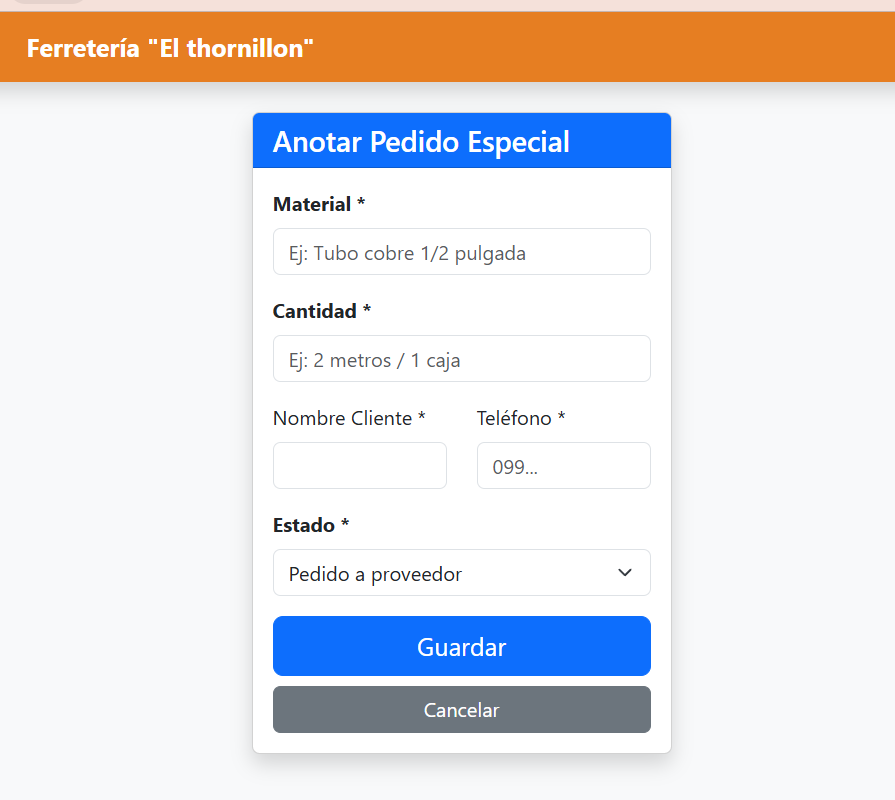
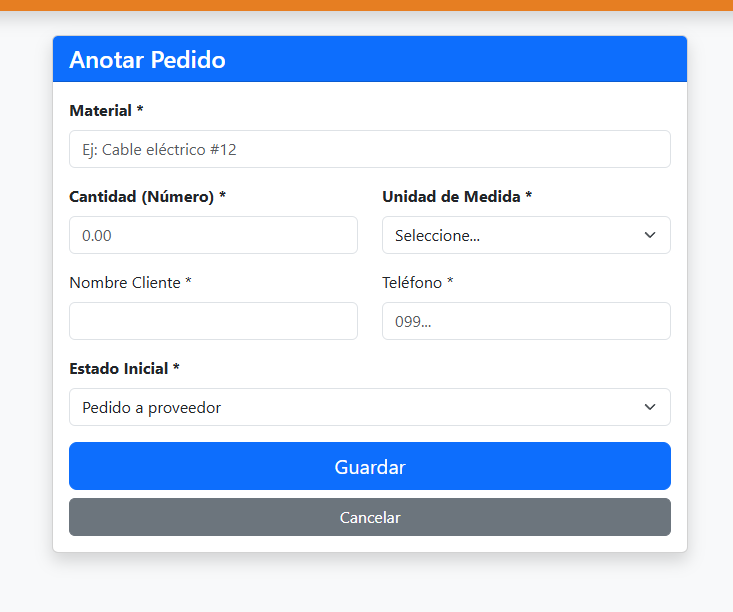
mejoras

diff --git a/resources/views/pedidos/edit.blade.php b/resources/views/pedidos/edit.blade.php
@@ -11,6 +11,16 @@
             </div>
             <div class="card-body">
                 
+                @if ($errors->any())
+                    <div class="alert alert-danger">
+                        <ul class="mb-0">
+                            @foreach ($errors->all() as $error)
+                                <li>{{ $error }}</li>
+                            @endforeach
+                        </ul>
+                    </div>
+                @endif
+
                 <form action="{{ route('pedidos.update', $pedido) }}" method="POST">
                     @csrf
                     @method('PUT')
@@ -20,9 +30,27 @@
                         <input type="text" name="material" class="form-control" value="{{ $pedido->material }}" required>
                     </div>
 
-                    <div class="mb-3">
-                        <label class="form-label">Cantidad</label>
-                        <input type="text" name="cantidad" class="form-control" value="{{ $pedido->cantidad }}" required>
+                    <div class="row">
+                        <div class="col-md-6 mb-3">
+                            <label class="form-label fw-bold">Cantidad</label>
+                            <input type="number" name="cantidad" class="form-control" value="{{ $pedido->cantidad }}" step="0.01" min="0" required>
+                        </div>
+                        
+                        <div class="col-md-6 mb-3">
+                            <label class="form-label fw-bold">Unidad de Medida</label>
+                            <select name="unidadesmed" class="form-select" required>
+                                <option value="Unidad(es)" {{ $pedido->unidadesmed == 'Unidad(es)' ? 'selected' : '' }}>Unidad(es)</option>
+                                <option value="Metro(s)" {{ $pedido->unidadesmed == 'Metro(s)' ? 'selected' : '' }}>Metro(s)</option>
+                                <option value="Centímetro(s)" {{ $pedido->unidadesmed == 'Centímetro(s)' ? 'selected' : '' }}>Centímetro(s)</option>
+                                <option value="Milímetro(s)" {{ $pedido->unidadesmed == 'Milímetro(s)' ? 'selected' : '' }}>Milímetro(s)</option>
+                                <option value="Kilo(s)" {{ $pedido->unidadesmed == 'Kilo(s)' ? 'selected' : '' }}>Kilo(s)</option>
+                                <option value="Libra(s)" {{ $pedido->unidadesmed == 'Libra(s)' ? 'selected' : '' }}>Libra(s)</option>
+                                <option value="Litro(s)" {{ $pedido->unidadesmed == 'Litro(s)' ? 'selected' : '' }}>Litro(s)</option>
+                                <option value="Galón(es)" {{ $pedido->unidadesmed == 'Galón(es)' ? 'selected' : '' }}>Galón(es)</option>
+                                <option value="Caja(s)" {{ $pedido->unidadesmed == 'Caja(s)' ? 'selected' : '' }}>Caja(s)</option>
+                                <option value="Juego/Kit" {{ $pedido->unidadesmed == 'Juego/Kit' ? 'selected' : '' }}>Juego/Kit</option>
+                            </select>
+                        </div>
                     </div>
 
                     <div class="row">
@@ -41,7 +69,7 @@
                         <select name="estado" class="form-select" required>
                             <option value="Pedido a proveedor" {{ $pedido->estado == 'Pedido a proveedor' ? 'selected' : '' }}>Pedido a proveedor</option>
                             <option value="En camino" {{ $pedido->estado == 'En camino' ? 'selected' : '' }}>En camino</option>
-                            <option value="Llegó" {{ $pedido->estado == 'Llegó' ? 'selected' : '' }}>Ya Llegó (Listo para entrega)</option>
+                            <option value="Llegó" {{ $pedido->estado == 'Llegó' ? 'selected' : '' }}>Ya Llegó</option>
                         </select>
                     </div>
 

diff --git a/resources/views/pedidos/create.blade.php b/resources/views/pedidos/create.blade.php
@@ -7,13 +7,13 @@
     <div class="col-md-6">
         <div class="card shadow">
             <div class="card-header bg-primary text-white">
-                <h4 class="mb-0">Anotar Pedido Especial</h4>
+                <h4 class="mb-0">Anotar Pedido</h4>
             </div>
             <div class="card-body">
                 
                 @if ($errors->any())
                     <div class="alert alert-danger">
-                        <ul>
+                        <ul class="mb-0">
                             @foreach ($errors->all() as $error)
                                 <li>{{ $error }}</li>
                             @endforeach
@@ -26,12 +26,31 @@
 
                     <div class="mb-3">
                         <label class="form-label fw-bold">Material *</label>
-                        <input type="text" name="material" class="form-control" placeholder="Ej: Tubo cobre 1/2 pulgada" required>
+                        <input type="text" name="material" class="form-control" placeholder="Ej: Cable eléctrico #12" required>
                     </div>
 
-                    <div class="mb-3">
-                        <label class="form-label fw-bold">Cantidad *</label>
-                        <input type="text" name="cantidad" class="form-control" placeholder="Ej: 2 metros / 1 caja" required>
+                    <div class="row">
+                        <div class="col-md-6 mb-3">
+                            <label class="form-label fw-bold">Cantidad (Número) *</label>
+                            <input type="number" name="cantidad" class="form-control" placeholder="0.00" step="0.01" min="0" required>
+                        </div>
+                        
+                        <div class="col-md-6 mb-3">
+                            <label class="form-label fw-bold">Unidad de Medida *</label>
+                            <select name="unidadesmed" class="form-select" required>
+                                <option value="">Seleccione...</option>
+                                <option value="Unidad(es)">Unidad(es)</option>
+                                <option value="Metro(s)">Metro(s)</option>
+                                <option value="Centímetro(s)">Centímetro(s)</option>
+                                <option value="Milímetro(s)">Milímetro(s)</option>
+                                <option value="Kilo(s)">Kilo(s)</option>
+                                <option value="Libra(s)">Libra(s)</option>
+                                <option value="Litro(s)">Litro(s)</option>
+                                <option value="Galón(es)">Galón(es)</option>
+                                <option value="Caja(s)">Caja(s)</option>
+                                <option value="Juego/Kit">Juego/Kit</option>
+                            </select>
+                        </div>
                     </div>
 
                     <div class="row">
@@ -46,12 +65,13 @@
                     </div>
 
                     <div class="mb-3">
-                        <label class="form-label fw-bold">Estado *</label>
+                        <label class="form-label fw-bold">Estado Inicial *</label>
                         <select name="estado" class="form-select" required>
                             <option value="Pedido a proveedor">Pedido a proveedor</option>
                             <option value="En camino">En camino</option>
-                            <option value="Llegó"> Llegó </option>
-                            <option value="Entregado">Entregado</option>
+                            <option value="Llegó">Llegó</option>
+                            <option value="Llegó">Entregado</option>
+
                         </select>
                     </div>
 

diff --git a/app/Http/Controllers/PedidoController.php b/app/Http/Controllers/PedidoController.php
@@ -7,36 +7,33 @@ use Illuminate\Http\Request;
 
 class PedidoController extends Controller
 {
-   
     public function index()
     {
-      
         $pedidos = Pedido::getPedidos();
         return view('pedidos.index', compact('pedidos'));
     }
-
 
     public function create()
     {
         return view('pedidos.create');
     }
 
+    
     public function store(Request $request)
     {
-
         $request->validate([
             'material' => 'required',
-            'cantidad' => 'required',
+            'cantidad' => 'required|numeric|min:0.01', 
+            'unidadesmed' => 'required', 
             'cliente' => 'required',
-            'telefono' => 'required',
+            'telefono' => 'required|numeric|min:1',
             'estado' => 'required'
         ]);
 
-  
         Pedido::createPedido($request);
 
         return redirect()->route('pedidos.index')
-            ->with('success', 'Pedido registrado en el sistema.');
+            ->with('success', 'Pedido registrado correctamente.');
     }
 
     public function edit(Pedido $pedido)
@@ -48,7 +45,8 @@ class PedidoController extends Controller
     {
         $request->validate([
             'material' => 'required',
-            'cantidad' => 'required',
+            'cantidad' => 'required|numeric|min:0.01',
+            'unidadesmed' => 'required',
             'cliente' => 'required',
             'telefono' => 'required',
             'estado' => 'required'
@@ -57,16 +55,14 @@ class PedidoController extends Controller
         Pedido::updatePedido($request, $pedido);
 
         return redirect()->route('pedidos.index')
-            ->with('success', 'Información del pedido actualizada.');
+            ->with('success', 'Información actualizada.');
     }
 
-  
     public function destroy(Pedido $pedido)
     {
-     
         Pedido::deletePedido($pedido);
 
         return redirect()->route('pedidos.index')
-            ->with('success', 'Pedido marcado como ENTREGADO y eliminado de la lista.');
+            ->with('success', 'Pedido entregado y eliminado de la lista.');
     }
 }

diff --git a/database/migrations/2025_12_19_174222_create_pedidos_table.php b/database/migrations/2025_12_19_174222_create_pedidos_table.php
@@ -9,19 +9,19 @@ return new class extends Migration
     /**
      * Run the migrations.
      */
-public function up(): void
+    public function up(): void
     {
         Schema::create('pedidos', function (Blueprint $table) {
-            $table->id(); 
-            
-            
-            $table->string('material');     
-            $table->string('cantidad');     
-            $table->string('cliente');       
-            $table->string('telefono');      
-            $table->string('estado');       
+            $table->id();
             
         
+            $table->string('material');
+            $table->decimal('cantidad', 10, 2); 
+            $table->string('unidadesmed');      
+            $table->string('cliente');
+            $table->string('telefono');
+            $table->string('estado');
+            
             $table->timestamps();
         });
     }

diff --git a/resources/views/pedidos/index.blade.php b/resources/views/pedidos/index.blade.php
@@ -18,6 +18,7 @@
                     <tr>
                         <th>Material</th>
                         <th>Cantidad</th>
+                        <th>Unidades Med.</th>
                         <th>Cliente</th>
                         <th>Teléfono</th>
                         <th>Estado</th>
@@ -30,6 +31,7 @@
                     <tr>
                         <td class="fw-bold">{{ $pedido->material }}</td>
                         <td>{{ $pedido->cantidad }}</td>
+                        <td>{{ $pedido->unidadesmed }}</td>
                         <td>{{ $pedido->cliente }}</td>
                         <td>
                             <a href="tel:{{ $pedido->telefono }}" class="text-decoration-none">

diff --git a/app/Models/Pedido.php b/app/Models/Pedido.php
@@ -7,25 +7,23 @@ use Illuminate\Http\Request;
 
 class Pedido extends Model
 {
-    
     protected $table = 'pedidos';
-
 
     protected $fillable = [
         'material',
         'cantidad',
+        'unidadesmed', 
         'cliente',
         'telefono',
         'estado'
     ];
 
-   
+    
     static public function getPedidos()
     {
         return self::all();
     }
 
-   
     static public function getPedidoById($id)
     {
         return self::find($id);
@@ -40,7 +38,6 @@ class Pedido extends Model
     {
         return $pedido->update($request->all());
     }
-
 
     static public function deletePedido(Pedido $pedido)
     {

diff --git a/README.md b/README.md
@@ -19,9 +19,11 @@ Se definió la estructura de la tabla con los siguientes campos:
 | :--- | :--- | :--- |
 | material | string | si |
 | cantidad | string | si |
+| unidadesmed| string | si |
 | cliente | string | si |
 | telefono | strings | si |
 | estado | strings | si |
+
 
 ### Justifiación de la Tabla
 he decidido usar esta tabla para simplificar el diseño.
